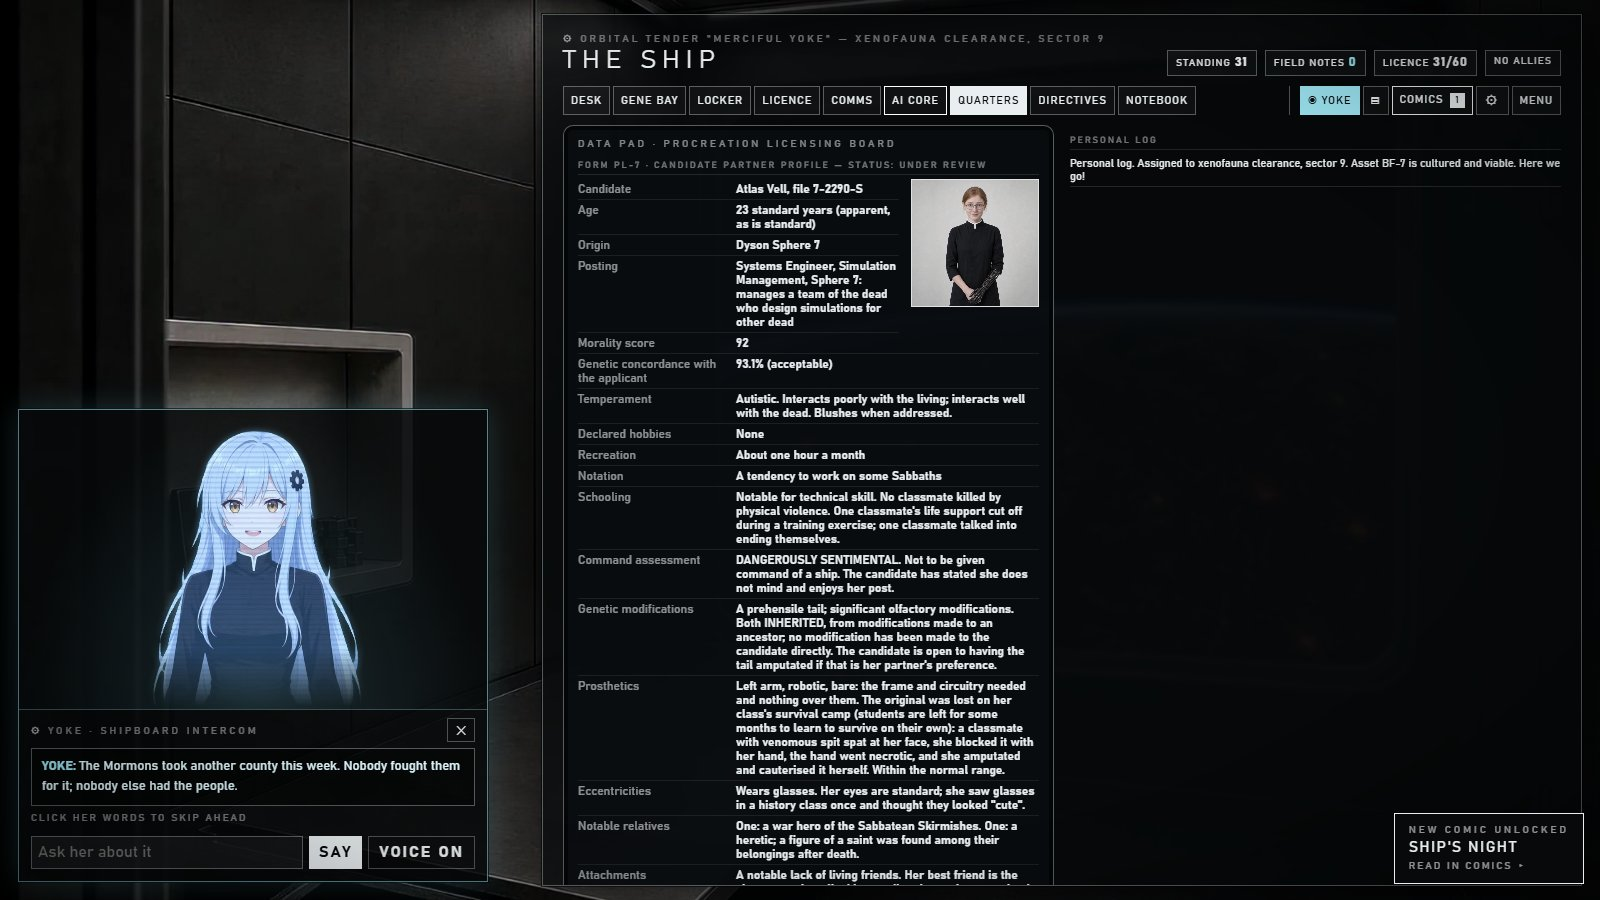
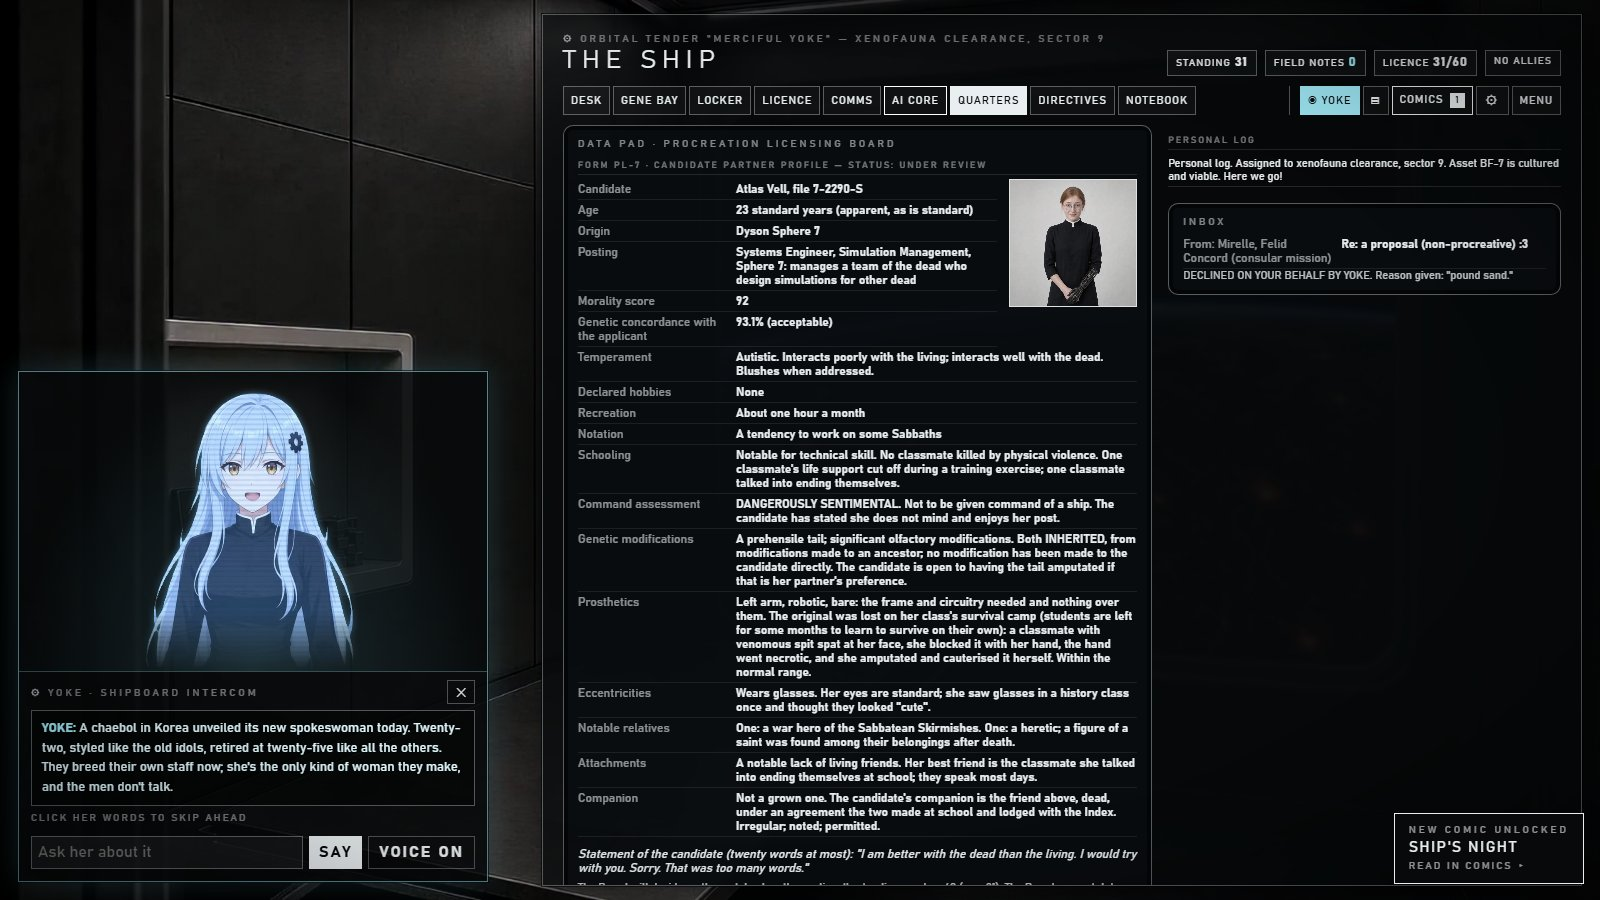
Broodfall: his quarters laid out round the pad (three fifths), the log and the inbox beside it (Collins, Oct 14 2026: dead space under the personal log)

Changed region(s): [[0.3438, 0.1244, 0.9688, 0.9956], [0.0312, 0.4044, 0.3125, 0.9022], [0.3438, 0.7467, 0.4062, 0.7778]]

diff --git a/games/broodfall/src/ui/campaignUi.ts b/games/broodfall/src/ui/campaignUi.ts
@@ -887,8 +887,10 @@ export class CampaignUi {
           <div class="cp-pad-row"><span>${esc(CATGIRL_MAIL.from)}</span><b>${esc(CATGIRL_MAIL.subject)}</b></div>
           <p class="cp-note">${esc(CATGIRL_MAIL.status)}</p></div>`
       : '';
-    return `<div class="cp-cols cp-quarters"><div>${pad}${inbox}</div>
-      <div><div class="cp-label">PERSONAL LOG</div><div class="cp-log">${s.log.slice(-6).reverse().map((l) => `<div>${esc(l)}</div>`).join('')}</div></div></div>`;
+    // The pad takes most of the room; his log and his inbox share the narrower column beside it, sized to what they hold
+    // (Collins, Oct 14 2026: "a lot of dead screen space ... on whatever the personal log is").
+    return `<div class="cp-cols cp-quarters"><div>${pad}</div>
+      <div><div class="cp-label">PERSONAL LOG</div><div class="cp-log">${s.log.slice(-10).reverse().map((l) => `<div>${esc(l)}</div>`).join('')}</div>${inbox}</div></div>`;
   }
 
   private genesHtml(): string {

diff --git a/games/broodfall/src/style.css b/games/broodfall/src/style.css
@@ -494,6 +494,9 @@ body.view-iso #view-controls { display: flex; }
 .cp-pick.exp { border-color: #1d5c58; }
 .cp-brief .screen-btn { margin-top: 10px; }
 .cp-cols { display: grid; grid-template-columns: 1fr 1fr; gap: 16px; }
+/* His quarters: the data pad wide, the log and the inbox in a narrower column beside it (Oct 14 2026). */
+.cp-cols.cp-quarters { grid-template-columns: minmax(0, 3fr) minmax(0, 2fr); align-items: start; }
+.cp-quarters .cp-inbox { margin-top: 16px; }
 .cp-lin { display: grid; grid-template-columns: 160px 1fr auto; gap: 8px; align-items: center; font-size: 11px; padding: 5px 7px; margin: 3px 0; background: #c7b788; border: 2px solid var(--panel-edge); }
 .cp-lin.have { background: #b9c98f; }
 .cp-lin i { font-style: normal; font-weight: bold; font-size: 9px; }

diff --git a/games/broodfall/HANDOFF.md b/games/broodfall/HANDOFF.md
@@ -2207,3 +2207,6 @@ slot is worth a line only when the line can be interesting there.
 - `back-11` (Collins, Oct 14 2026, his words): "do you ever wonder what the chance is you're in a simulation?", a
   back-aboard opener with the reply box open; its secret and the lore: not every soul in a simulation knows it, least of
   all those judged of low moral character by how they act inside (lorebook, `empire.md`, `docs/UNIVERSE.md`).
+- The quarters layout (Collins, Oct 14 2026: "a lot of dead screen space ... on whatever the personal log is"): the pad
+  takes three fifths of the room, his log (last ten entries) and the inbox share the column beside it (.cp-quarters in
+  src/style.css; quartersHtml). The log is the campaign's diary, one line per deployment, so it is one line on day one.
